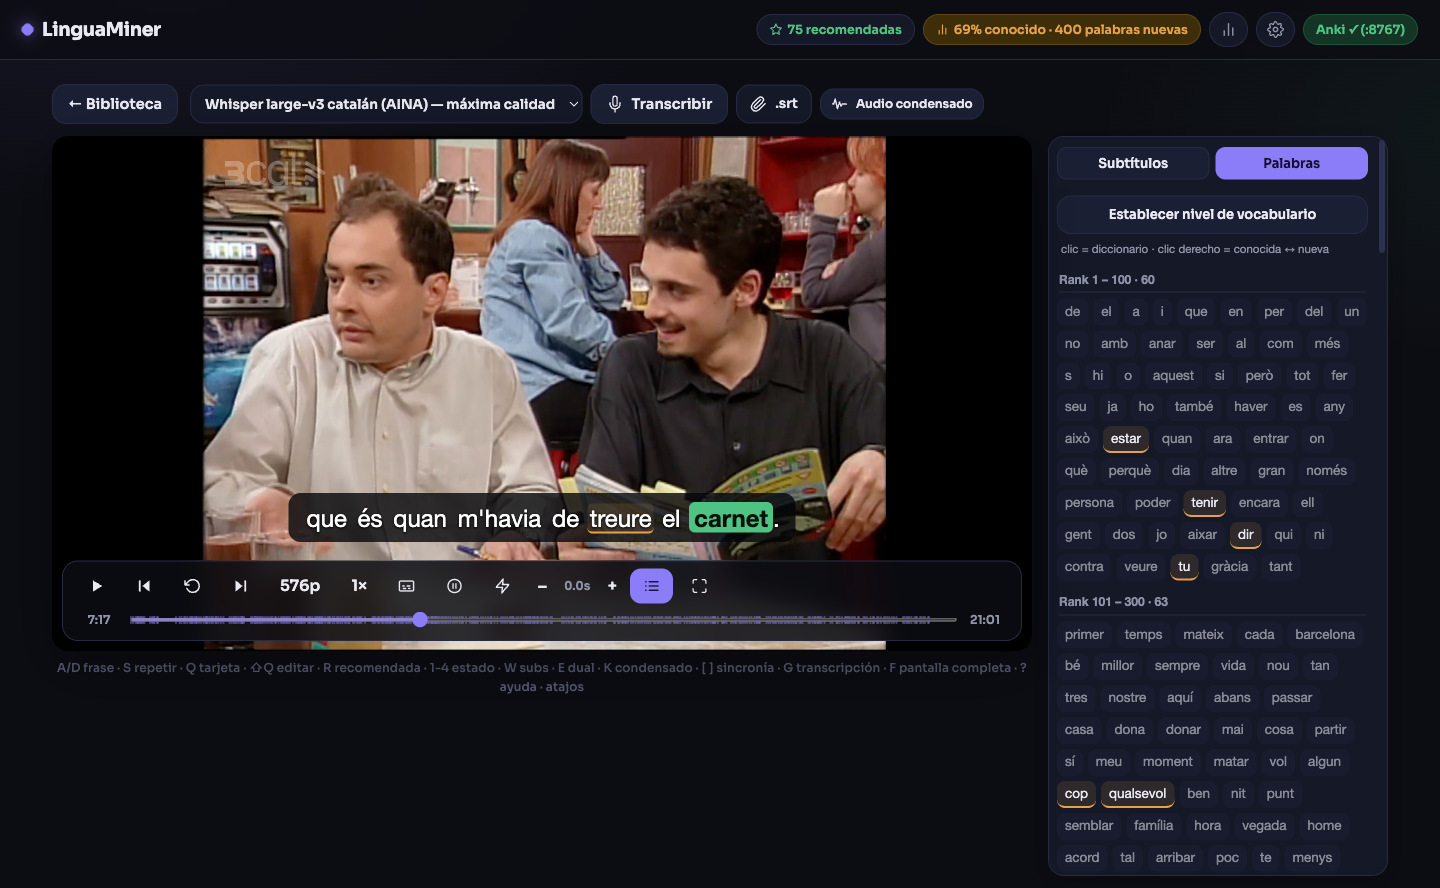
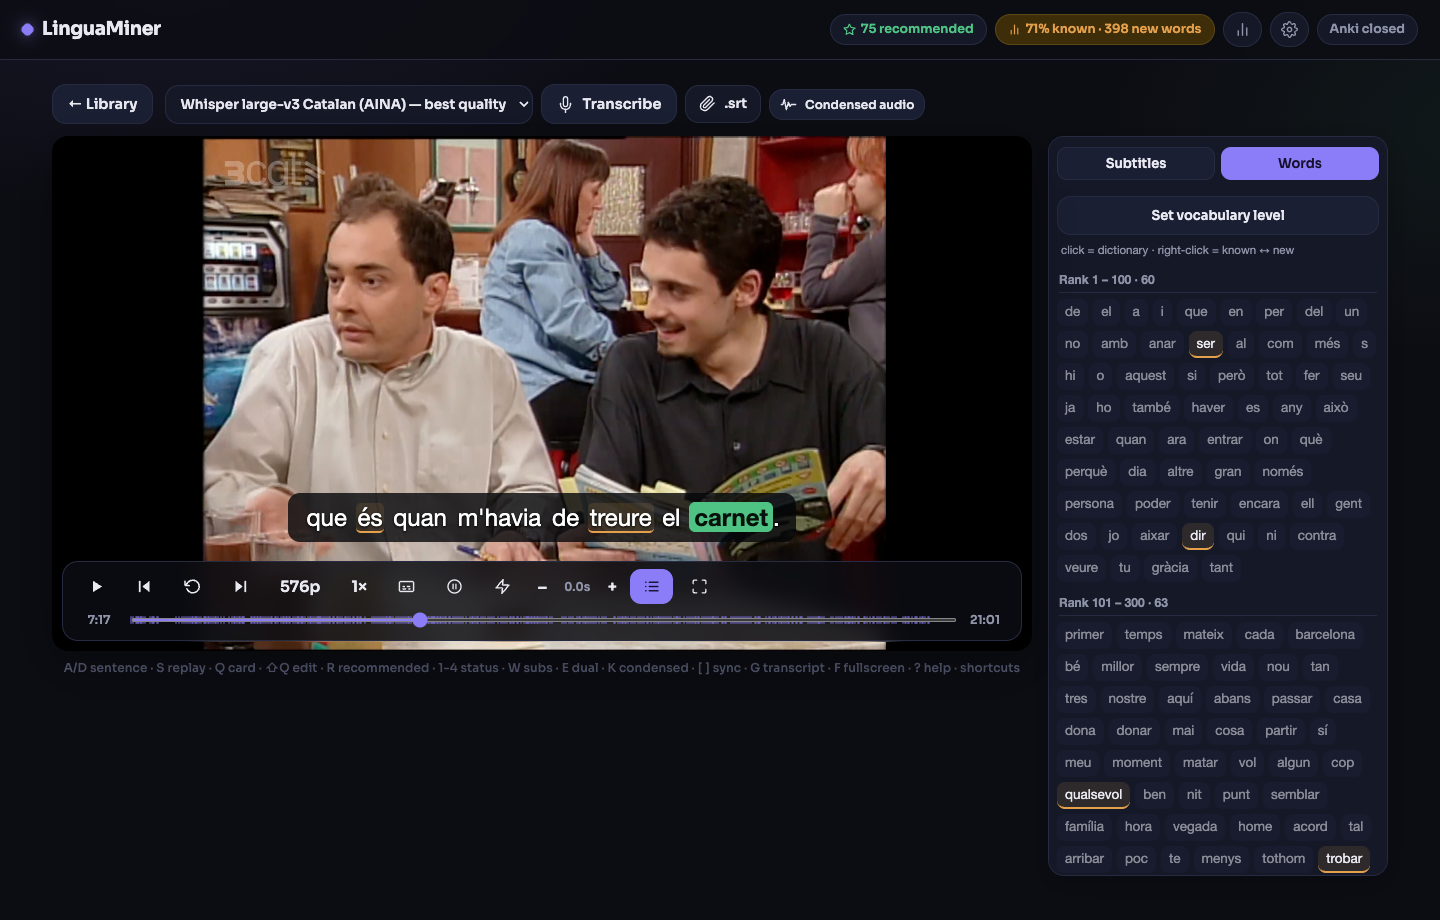
fix: «Ver online» estaba roto desde v1.15.0 — y los assets del README, en español — v1.19.0
Al ir a regenerar las capturas para el Discord de Refold, el navegador sin
interfaz se negaba a cargar ningún vídeo. No era el navegador: era un
ReferenceError que yo mismo metí hace tres versiones.

`t` es la función de traducción. Al traducir el aviso «Cargando el video…»
dentro de loadStreamUrl, que ya tenía `const t = V.currentTime`, la llamada
t("ts.loading_video") quedó por delante de la declaración: zona muerta
temporal, excepción, y la función entera muere. O sea que NINGUNA sesión de
streaming cargaba el vídeo desde v1.15.0.

El mismo patrón estaba en otras dos: openConj (la vista de conjugación no
abría nunca) y nextRec (petaba al pulsar R sin frases recomendadas).

Los tests de traducción no lo vieron porque solo leen texto, no ejecutan JS.
Ahora hay uno que falla si una función declara `t` local y llama al traductor;
comprobado reintroduciendo el bug.

Aparte: el GIF y las tres capturas del README estaban en español mientras el
README está en inglés y la app arranca en inglés para quien llega de fuera. Un
visitante veía una app en español y concluía lo obvio. Regeneradas las cuatro.

Y regenerarlas destapó otro bloque sin traducir: la lista de «Primeros pasos»,
que es literalmente lo primero que ve un usuario nuevo, era un diccionario fijo
en español. Además decía «Traductor catalán→español» aunque estudiaras ruso.

diff --git a/static/i18n.js b/static/i18n.js
@@ -123,6 +123,22 @@ const I18N = {
     "share.ts_missing": "Instala Tailscale para que entren amigos fuera de tu wifi (y para HTTPS + instalación como app).",
     "share.ts_off": "Tailscale está instalado pero apagado: ábrelo para obtener un enlace 100.x accesible desde cualquier sitio.",
     "share.ts_on": "Tailscale activo ✓ — usa su enlace para amigos remotos.",
+    "onb.ffmpeg": "ffmpeg (recorte de audio/imagen)",
+    "onb.ffmpeg_hint": "Instala con: brew install ffmpeg",
+    "onb.translator": "Traductor neural del idioma que estudias",
+    "onb.translator_hint": "Se descarga (~1,5 GB) — pulsa el botón",
+    "onb.dictionary": "Diccionario de acepciones",
+    "onb.dictionary_hint": "Se descarga con el traductor",
+    "onb.forms": "Diccionario de formas (lemas)",
+    "onb.forms_hint": "Se descarga con el traductor",
+    "onb.spacy": "Modelo lingüístico spaCy",
+    "onb.spacy_hint": "Ejecuta install.sh de nuevo si falta",
+    "onb.anki": "Anki + AnkiConnect (para las tarjetas)",
+    "onb.anki_hint": "Abre Anki con el complemento 2055492159; sin él, las tarjetas quedan en cola",
+    "onb.espeak": "espeak-ng (pronunciación IPA, opcional)",
+    "onb.espeak_hint": "Opcional: brew install espeak-ng",
+    "onb.tts": "Voz neural Piper (pronunciación, opcional)",
+    "onb.tts_hint": "Se descarga (~20 MB) con el botón",
     "hdr.stats": "Estadísticas", "hdr.settings": "Configuración",
     "hero.title": "Tu biblioteca",
     "hero.sub": "Mina {0} desde tus videos — tarjetas con audio, imagen y traducción directas a Anki.",
@@ -342,6 +358,22 @@ const I18N = {
     "share.ts_missing": "Instal·la Tailscale perquè hi entrin amics fora del teu wifi (i per HTTPS + instal·lació com a app).",
     "share.ts_off": "Tailscale està instal·lat però apagat: obre'l per obtenir un enllaç 100.x accessible des de qualsevol lloc.",
     "share.ts_on": "Tailscale actiu ✓ — fes servir el seu enllaç per a amics remots.",
+    "onb.ffmpeg": "ffmpeg (retall d'àudio/imatge)",
+    "onb.ffmpeg_hint": "Instal·la amb: brew install ffmpeg",
+    "onb.translator": "Traductor neuronal de l'idioma que estudies",
+    "onb.translator_hint": "Es baixa (~1,5 GB) — prem el botó",
+    "onb.dictionary": "Diccionari d'accepcions",
+    "onb.dictionary_hint": "Es baixa amb el traductor",
+    "onb.forms": "Diccionari de formes (lemes)",
+    "onb.forms_hint": "Es baixa amb el traductor",
+    "onb.spacy": "Model lingüístic spaCy",
+    "onb.spacy_hint": "Executa install.sh de nou si falta",
+    "onb.anki": "Anki + AnkiConnect (per a les targetes)",
+    "onb.anki_hint": "Obre l'Anki amb el complement 2055492159; sense ell, les targetes queden a la cua",
+    "onb.espeak": "espeak-ng (pronunciació IPA, opcional)",
+    "onb.espeak_hint": "Opcional: brew install espeak-ng",
+    "onb.tts": "Veu neuronal Piper (pronunciació, opcional)",
+    "onb.tts_hint": "Es baixa (~20 MB) amb el botó",
     "hdr.stats": "Estadístiques", "hdr.settings": "Configuració",
     "hero.title": "La teva biblioteca",
     "hero.sub": "Mina {0} dels teus vídeos — targetes amb àudio, imatge i traducció directes a l'Anki.",
@@ -561,6 +593,22 @@ const I18N = {
     "share.ts_missing": "Install Tailscale to let friends in from outside your wifi (and to get HTTPS plus app install).",
     "share.ts_off": "Tailscale is installed but switched off — open it to get a 100.x link that works from anywhere.",
     "share.ts_on": "Tailscale is up ✓ — use its link for friends who aren't nearby.",
+    "onb.ffmpeg": "ffmpeg (cuts the audio and frames)",
+    "onb.ffmpeg_hint": "Install with: brew install ffmpeg",
+    "onb.translator": "Neural translator for the language you're studying",
+    "onb.translator_hint": "Downloads (~1.5 GB) — press the button",
+    "onb.dictionary": "Bilingual dictionary",
+    "onb.dictionary_hint": "Downloads with the translator",
+    "onb.forms": "Word-forms dictionary (lemmas)",
+    "onb.forms_hint": "Downloads with the translator",
+    "onb.spacy": "spaCy language model",
+    "onb.spacy_hint": "Run install.sh again if it's missing",
+    "onb.anki": "Anki + AnkiConnect (for the cards)",
+    "onb.anki_hint": "Open Anki with add-on 2055492159; without it, cards just queue up",
+    "onb.espeak": "espeak-ng (IPA pronunciation, optional)",
+    "onb.espeak_hint": "Optional: brew install espeak-ng",
+    "onb.tts": "Piper neural voice (pronunciation, optional)",
+    "onb.tts_hint": "Downloads (~20 MB) with the button",
     "hdr.stats": "Statistics", "hdr.settings": "Settings",
     "hero.title": "Your library",
     "hero.sub": "Mine {0} from your videos — Anki cards with audio, image and translation in one click.",

diff --git a/static/app.js b/static/app.js
@@ -181,16 +181,9 @@ async function runSearch() {
 }
 
 // ---------- asistente de primer arranque ----------
-const ONB_LABEL = {
-  ffmpeg: ["ffmpeg (recorte de audio/imagen)", "Instala con: brew install ffmpeg"],
-  translator: ["Traductor catalán→español", "Se descarga (~1.5 GB) — pulsa el botón"],
-  dictionary: ["Diccionario de acepciones", "Se descarga con el traductor"],
-  forms: ["Diccionario de formas (lemas)", "Se descarga con el traductor"],
-  spacy: ["Modelo lingüístico spaCy", "Ejecuta install.sh de nuevo si falta"],
-  anki: ["Anki + AnkiConnect (para las tarjetas)", "Abre Anki con el complemento 2055492159; sin él, las tarjetas quedan en cola"],
-  espeak: ["espeak-ng (pronunciación IPA, opcional)", "Opcional: brew install espeak-ng"],
-  tts: ["Voz neural Piper (pronunciación, opcional)", "Se descarga (~20 MB) con el botón"],
-};
+// se resuelve al pintar, no al cargar: si fuera un objeto fijo se quedaría en
+// el idioma que hubiera activo al arrancar
+const onbLabel = (k) => [t("onb." + k), t("onb." + k + "_hint")];
 const ONB_ORDER = ["ffmpeg", "translator", "dictionary", "forms", "spacy", "anki", "tts", "espeak"];
 const ONB_OPTIONAL = new Set(["espeak", "tts"]);
 let ONB_DISMISSED = false;
@@ -208,7 +201,7 @@ async function refreshOnboarding() {
   $("onb-need").hidden = !!s.has_sessions;
   $("onb-checks").innerHTML = ONB_ORDER.map((k) => {
     const ok = s.checks[k];
-    const [label, hint] = ONB_LABEL[k];
+    const [label, hint] = onbLabel(k);
     const dot = ok ? "ok" : (ONB_OPTIONAL.has(k) ? "opt" : "warn");
     return `<li class="${ok ? "ok" : ""}"><span><span class="onb-dot ${dot}"></span>${label}</span>${ok ? "" : `<small>${hint}</small>`}</li>`;
   }).join("");
@@ -402,13 +395,13 @@ async function loadStreamUrl(sid, height) {
   const r = await api(`/api/sessions/${sid}/stream-url?height=${height || 0}`);
   hideProgress();
   if (r.error) { showProgress(1, r.error, true); return; }
-  const t = V.currentTime || 0, playing = !V.paused;
+  const at = V.currentTime || 0, playing = !V.paused;
   STREAM_HEIGHTS = r.is_hls ? [] : (r.heights || []);   // HLS: ABR automático
   STREAM_H = r.height || 0;
   await setVideoSrc(r.url, r.is_hls);
   if (height) {   // cambio de calidad: preservar el punto
     V.addEventListener("loadedmetadata", () => {
-      V.currentTime = t; if (playing) V.play();
+      V.currentTime = at; if (playing) V.play();
     }, { once: true });
   }
   renderQualityMenu();
@@ -1014,8 +1007,8 @@ async function openConj(lemma) {
   $("conj-title").textContent = t("conj.btn") + " — " + lemma;
   $("conj-body").innerHTML = '<p class="dim">…</p>';
   $("conj-view").hidden = false;
-  const t = await api("/api/conjugation?lemma=" + encodeURIComponent(lemma));
-  $("conj-body").innerHTML = renderConjTable(t);
+  const table = await api("/api/conjugation?lemma=" + encodeURIComponent(lemma));
+  $("conj-body").innerHTML = renderConjTable(table);
 }
 
 function renderConjTable(t) {
@@ -1848,8 +1841,8 @@ function updateRecs() {
 
 function nextRec() {
   if (!RECS.length) { toast(t("ts.no_recs"), "err"); return; }
-  const t = V.currentTime;
-  const nxt = RECS.find((i) => SEGS[i].start > t + 0.05) ?? RECS[0];
+  const now = V.currentTime;
+  const nxt = RECS.find((i) => SEGS[i].start > now + 0.05) ?? RECS[0];
   gotoSeg(nxt);
 }
 $("rec-chip").onclick = () => nextRec();

diff --git a/static/index.html b/static/index.html
@@ -4,7 +4,7 @@
 <meta charset="utf-8">
 <title>LinguaMiner</title>
 <meta name="viewport" content="width=device-width, initial-scale=1, viewport-fit=cover">
-<link rel="icon" href="/favicon.png?v=1.18.0">
+<link rel="icon" href="/favicon.png?v=1.19.0">
 <link rel="apple-touch-icon" href="/icons/icon-192.png">
 <link rel="manifest" href="/manifest.webmanifest">
 <meta name="theme-color" content="#0c0d13">
@@ -12,7 +12,7 @@
 <meta name="apple-mobile-web-app-capable" content="yes">
 <meta name="apple-mobile-web-app-status-bar-style" content="black-translucent">
 <meta name="apple-mobile-web-app-title" content="LinguaMiner">
-<link rel="stylesheet" href="/style.css?v=1.18.0">
+<link rel="stylesheet" href="/style.css?v=1.19.0">
 </head>
 <body>
 <!-- sprite de iconos (estilo Lucide: 24×24, trazo 2, sin relleno) -->
@@ -445,7 +445,7 @@
     });
   }
 </script>
-<script src="/i18n.js?v=1.18.0"></script>
-<script src="/app.js?v=1.18.0"></script>
+<script src="/i18n.js?v=1.19.0"></script>
+<script src="/app.js?v=1.19.0"></script>
 </body>
 </html>

diff --git a/static/sw.js b/static/sw.js
@@ -1,7 +1,7 @@
 // Service worker de LinguaMiner. Convierte la web en PWA instalable y da un
 // arranque offline del "shell". Nunca cachea /api/ ni /media/ (dinámicos y
 // pesados). CACHE va atado a la versión de pyproject (lo garantiza test_assets).
-const CACHE = "linguaminer-1.18.0";
+const CACHE = "linguaminer-1.19.0";
 const SHELL = [
   "/",
   "/index.html",

diff --git a/tests/test_i18n.py b/tests/test_i18n.py
@@ -164,3 +164,28 @@ def test_no_untranslated_strings_reaching_the_dom_from_js():
         if "${t(" not in t and _SPANISH.search(t):
             bad.append("toast: " + t[:60])
     assert not bad, "cadenas en español que van al DOM desde app.js:\n  " + "\n  ".join(bad)
+
+
+def test_no_function_shadows_the_translator():
+    """`const t = …` dentro de una función que llama a t("clave") revienta.
+
+    `t` es la función de traducción global. Si una función declara una variable
+    local con ese nombre, cualquier t("…") anterior a la declaración lanza
+    ReferenceError por la zona muerta temporal, y la función entera deja de
+    funcionar. Pasó de verdad: al traducir el aviso "Cargando el video…"
+    dentro de loadStreamUrl, que tenía `const t = V.currentTime`, se rompió el
+    streaming por completo durante tres versiones. Los tests de traducción no
+    lo vieron porque solo miran texto, no ejecutan JS.
+    """
+    js = (ROOT / "static" / "app.js").read_text(encoding="utf-8")
+    lines = js.split("\n")
+    starts = [i for i, ln in enumerate(lines)
+              if re.match(r"^(async )?function \w+|^\s*\$\(.*\)\.on\w+ = (async )?\(", ln)]
+    starts.append(len(lines))
+    bad = []
+    for a, b in zip(starts, starts[1:]):
+        body = "\n".join(lines[a:b])
+        if re.search(r"\b(const|let)\s+t\s*=", body) and re.search(r'[^.\w]t\("', body):
+            bad.append(f"línea {a + 1}: {lines[a].strip()[:60]}")
+    assert not bad, ("funciones que declaran `t` local y llaman al traductor:\n  "
+                     + "\n  ".join(bad))

diff --git a/README.md b/README.md
@@ -2,7 +2,7 @@
 
 [![CI](https://github.com/thecopybookhare-cmd/lingua-miner/actions/workflows/ci.yml/badge.svg)](https://github.com/thecopybookhare-cmd/lingua-miner/actions)
 ![license](https://img.shields.io/badge/license-MIT-blue)
-![version](https://img.shields.io/badge/version-1.18.0-8b7cf8)
+![version](https://img.shields.io/badge/version-1.19.0-8b7cf8)
 ![python](https://img.shields.io/badge/python-3.12-3776ab)
 
 **Local, Migaku-style flashcard miner — learn languages from the videos you love.**
@@ -174,7 +174,7 @@ language is mostly adding one entry there.
 ```bash
 uv pip install -p .venv/bin/python -e . --group dev
 .venv/bin/ruff check app/ tests/     # lint
-.venv/bin/python -m pytest tests/    # 178 tests
+.venv/bin/python -m pytest tests/    # 179 tests
 ```
 
 See [CONTRIBUTING.md](CONTRIBUTING.md). CI runs lint + tests on
